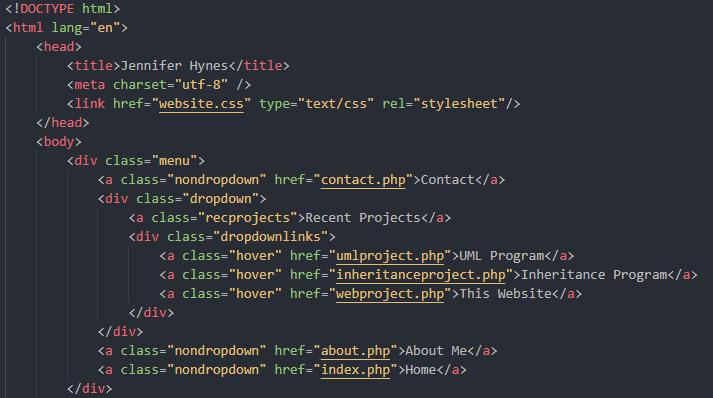
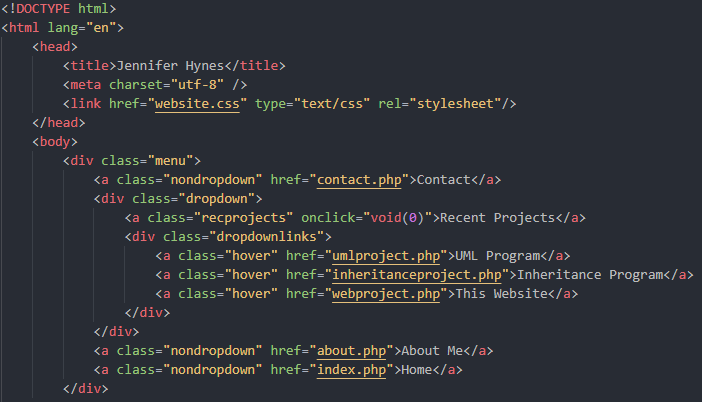
bug fix for iOS devices

Changed region(s): [[0.0, 0.0, 0.9872, 0.995]]

diff --git a/header.html b/header.html
@@ -9,7 +9,7 @@
         <div class="menu">
             <a class="nondropdown" href="contact.php">Contact</a>
             <div class="dropdown">
-                <a class="recprojects">Recent Projects</a>
+                <a class="recprojects" onclick="void(0)">Recent Projects</a>
                 <div class="dropdownlinks">
                     <a class="hover" href="umlproject.php">UML Program</a>
                     <a class="hover" href="inheritanceproject.php">Inheritance Program</a>
